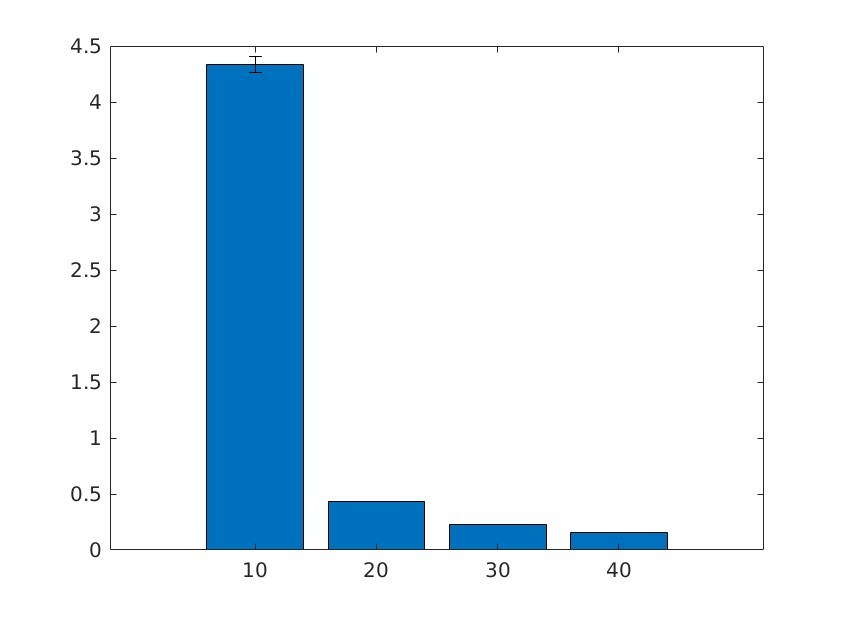
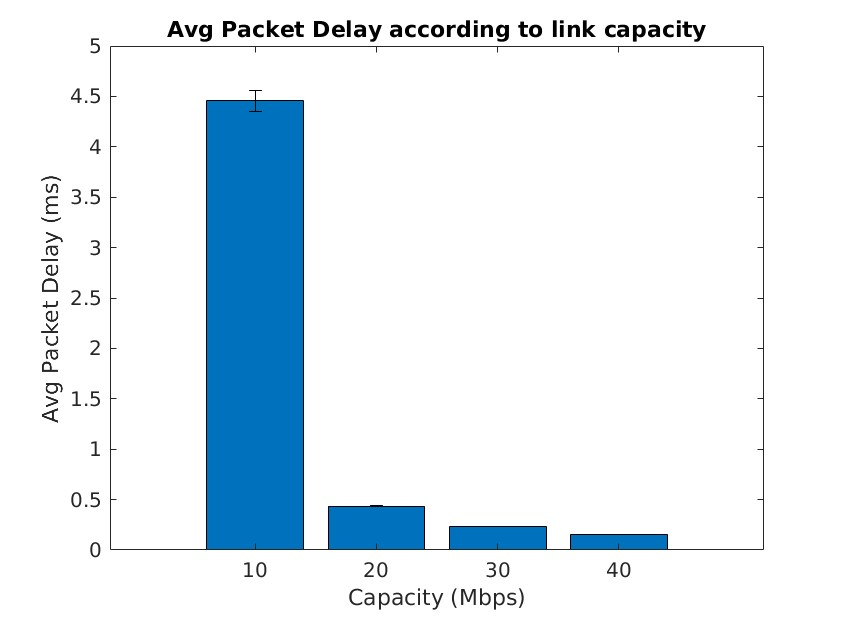
updated 1.a image and started ex 1.e

diff --git a/task1/ex_1e.m b/task1/ex_1e.m
@@ -1,0 +1,101 @@
+%% From ex: 1.c
+
+C = 10;              % Link bandwidth (Mbps)
+f = 1e6;             % Queue size (Bytes)
+P = 1e5;             % Stopping criterion (number of packets)
+lambda_values = [1000, 1300, 1600, 1900];  % Packet arrival rate (pps)
+
+% Vectors to store the results
+average_packet_delay = zeros(length(lambda_values), 1);
+average_throughput = zeros(length(lambda_values), 1);
+confidence_intervals_delay = zeros(length(lambda_values), 2);
+confidence_intervals_throughput = zeros(length(lambda_values), 2);
+
+% Run the simulator 20 times for each lambda value
+for i = 1:length(lambda_values)
+    lambda = lambda_values(i);
+    num_simulations = 20;
+    delays = zeros(num_simulations, 1);
+    throughputs = zeros(num_simulations, 1);
+    
+    for j = 1:num_simulations
+        [PL, APD, ~, TT] = Simulator1(lambda, C, f, P);
+        delays(j) = APD;
+        throughputs(j) = TT;
+    end
+    
+    % Calculate the mean and 90% confidence interval
+    average_packet_delay(i) = mean(delays);
+    confidence_intervals_delay(i, :) = prctile(delays, [5, 95]);
+    
+    average_throughput(i) = mean(throughputs);
+    confidence_intervals_throughput(i, :) = prctile(throughputs, [5, 95]);
+end
+
+% Bar Charts
+figure;
+subplot(2, 1, 1);
+bar(average_packet_delay);
+title('Average Packet Delay (Simulator1)');
+xlabel('Packet Arrival Rate (pps)');
+ylabel('Average Delay (ms)');
+hold on;
+errorbar(1:length(lambda_values), average_packet_delay, average_packet_delay - confidence_intervals_delay(:, 1), confidence_intervals_delay(:, 2) - average_packet_delay, 'r.', 'LineWidth', 1);
+
+subplot(2, 1, 2);
+bar(average_throughput);
+title('Average Throughput (Simulator1)');
+xlabel('Packet Arrival Rate (pps)');
+ylabel('Average Throughput (Mbps)');
+hold on;
+errorbar(1:length(lambda_values), average_throughput, average_throughput - confidence_intervals_throughput(:, 1), confidence_intervals_throughput(:, 2) - average_throughput, 'r.', 'LineWidth', 1);
+
+
+%--------------------------------------------------------------------------
+%% From ex: 1.d
+
+C = 10;              % Link bandwidth (Mbps)
+f = 1e6;             % Queue size (Bytes)
+P = 1e5;             % Stopping criterion (number of packets)
+b = 1e-5;            % Bit error rate
+lambda_values = [1000, 1300, 1600, 1900];  % Packet arrival rate (pps)
+
+% Vectors to store the results for Simulator2
+average_packet_delay_sim2 = zeros(length(lambda_values), 1);
+average_throughput_sim2 = zeros(length(lambda_values), 1);
+
+% Run the simulations for each lambda value and the specified BER
+for i = 1:length(lambda_values)
+    lambda = lambda_values(i);
+    num_simulations = 20;
+    delays_sim2 = zeros(num_simulations, 1);
+    throughputs_sim2 = zeros(num_simulations, 1);
+    
+    for j = 1:num_simulations
+        [PL, APD, ~, TT] = Simulator2_e(lambda, C, f, P, b);
+        delays_sim2(j) = APD;
+        throughputs_sim2(j) = TT;
+    end
+    
+    % Calculate the mean for Simulator2
+    average_packet_delay_sim2(i) = mean(delays_sim2);
+    average_throughput_sim2(i) = mean(throughputs_sim2);
+end
+
+% Display the results in bar charts for Simulator2
+figure;
+subplot(2, 1, 1);
+bar(average_packet_delay_sim2);
+title('Average Packet Delay (Simulator2)');
+xlabel('Packet Arrival Rate (pps)');
+ylabel('Average Delay (ms)');
+hold on;
+errorbar(1:length(lambda_values), average_packet_delay_sim2, average_packet_delay_sim2 - confidence_intervals_delay(:, 1), confidence_intervals_delay(:, 2) - average_packet_delay_sim2, 'r.', 'LineWidth', 1);
+
+subplot(2, 1, 2);
+bar(average_throughput_sim2);
+title('Average Throughput (Simulator2)');
+xlabel('Packet Arrival Rate (pps)');
+ylabel('Average Throughput (Mbps)');
+hold on;
+errorbar(1:length(lambda_values), average_throughput_sim2, average_throughput_sim2 - confidence_intervals_throughput(:, 1), confidence_intervals_throughput(:, 2) - average_throughput_sim2, 'r.', 'LineWidth', 1);

diff --git a/task1/Simulator2_e.m b/task1/Simulator2_e.m
@@ -1,0 +1,103 @@
+function [PL , APD , MPD , TT] = Simulator2_e(lambda,C,f,P,b)
+% INPUT PARAMETERS:
+%  lambda - packet rate (packets/sec)
+%  C      - link bandwidth (Mbps)
+%  f      - queue size (Bytes)
+%  P      - number of packets (stopping criterium)
+%  b      - bit error rate
+% OUTPUT PARAMETERS:
+%  PL   - packet loss (%)
+%  APD  - average packet delay (milliseconds)
+%  MPD  - maximum packet delay (milliseconds)
+%  TT   - transmitted throughput (Mbps)
+
+%Events:
+ARRIVAL= 0;       % Arrival of a packet            
+DEPARTURE= 1;     % Departure of a packet
+
+%State variables:
+STATE = 0;          % 0 - connection free; 1 - connection bysy
+QUEUEOCCUPATION= 0; % Occupation of the queue (in Bytes)
+QUEUE= [];          % Size and arriving time instant of each packet in the queue
+
+%Statistical Counters:
+TOTALPACKETS= 0;       % No. of packets arrived to the system
+LOSTPACKETS= 0;        % No. of packets dropped due to buffer overflow
+TRANSMITTEDPACKETS= 0; % No. of transmitted packets
+TRANSMITTEDBYTES= 0;   % Sum of the Bytes of transmitted packets
+DELAYS= 0;             % Sum of the delays of transmitted packets
+MAXDELAY= 0;           % Maximum delay among all transmitted packets
+
+% Initializing the simulation clock:
+Clock= 0;
+
+% Initializing the List of Events with the first ARRIVAL:
+tmp= Clock + exprnd(1/lambda);
+Event_List = [ARRIVAL, tmp, GeneratePacketSize(), tmp];
+
+%Similation loop:
+while TRANSMITTEDPACKETS<P               % Stopping criterium
+    Event_List= sortrows(Event_List,2);  % Order EventList by time
+    Event= Event_List(1,1);              % Get first event and 
+    Clock= Event_List(1,2);              %   and
+    Packet_Size= Event_List(1,3);        %   associated
+    Arrival_Instant= Event_List(1,4);    %   parameters.
+    Event_List(1,:)= [];                 % Eliminate first event
+    if Event == ARRIVAL         % If first event is an ARRIVAL
+        TOTALPACKETS= TOTALPACKETS+1;
+        tmp= Clock + exprnd(1/lambda);
+        Event_List = [Event_List; ARRIVAL, tmp, GeneratePacketSize(), tmp];
+        if STATE==0
+            STATE= 1;
+            Event_List = [Event_List; DEPARTURE, Clock + 8*Packet_Size/(C*10^6), Packet_Size, Clock];
+        else
+            if QUEUEOCCUPATION + Packet_Size <= f
+                QUEUE= [QUEUE;Packet_Size , Clock];
+                QUEUEOCCUPATION= QUEUEOCCUPATION + Packet_Size;
+            else
+                LOSTPACKETS= LOSTPACKETS + 1;
+            end
+        end
+    else                        % If first event is a DEPARTURE
+        if (rand() < (1-b)^(Packet_Size*8)) % Introduce the BER prob
+            TRANSMITTEDBYTES= TRANSMITTEDBYTES + Packet_Size;
+            DELAYS= DELAYS + (Clock - Arrival_Instant);
+            if Clock - Arrival_Instant > MAXDELAY
+                MAXDELAY= Clock - Arrival_Instant;
+            end
+            TRANSMITTEDPACKETS= TRANSMITTEDPACKETS + 1;
+        else                            % Failure
+            LOSTPACKETS = LOSTPACKETS + 1;
+        end
+
+        if QUEUEOCCUPATION > 0
+            Event_List = [Event_List; DEPARTURE, Clock + 8*QUEUE(1,1)/(C*10^6), QUEUE(1,1), QUEUE(1,2)];
+            QUEUEOCCUPATION= QUEUEOCCUPATION - QUEUE(1,1);
+            QUEUE(1,:)= [];
+        else
+            STATE= 0;
+        end
+    end
+end
+
+%Performance parameters determination:
+PL= 100*LOSTPACKETS/TOTALPACKETS;      % in %
+APD= 1000*DELAYS/TRANSMITTEDPACKETS;   % in milliseconds
+MPD= 1000*MAXDELAY;                    % in milliseconds
+TT= 10^(-6)*TRANSMITTEDBYTES*8/Clock;  % in Mbps
+
+end
+
+function out= GeneratePacketSize()
+    aux= rand();
+    aux2= [65:109 111:1517];
+    if aux <= 0.25
+        out= 64;
+    elseif aux <= 0.25 + 0.17
+        out= 110;
+    elseif aux <= 0.25 + 0.17 + 0.11
+        out= 1518;
+    else
+        out = aux2(randi(length(aux2)));
+    end
+end

diff --git a/task1/Simulator1_e.m b/task1/Simulator1_e.m
@@ -1,0 +1,97 @@
+function [PL , APD , MPD , TT] = Simulator1_e(lambda,C,f,P)
+% INPUT PARAMETERS:
+%  lambda - packet rate (packets/sec)
+%  C      - link bandwidth (Mbps)
+%  f      - queue size (Bytes)
+%  P      - number of packets (stopping criterium)
+% OUTPUT PARAMETERS:
+%  PL   - packet loss (%)
+%  APD  - average packet delay (milliseconds)
+%  MPD  - maximum packet delay (milliseconds)
+%  TT   - transmitted throughput (Mbps)
+
+%Events:
+ARRIVAL= 0;       % Arrival of a packet            
+DEPARTURE= 1;     % Departure of a packet
+
+%State variables:
+STATE = 0;          % 0 - connection free; 1 - connection bysy
+QUEUEOCCUPATION= 0; % Occupation of the queue (in Bytes)
+QUEUE= [];          % Size and arriving time instant of each packet in the queue
+
+%Statistical Counters:
+TOTALPACKETS= 0;       % No. of packets arrived to the system
+LOSTPACKETS= 0;        % No. of packets dropped due to buffer overflow
+TRANSMITTEDPACKETS= 0; % No. of transmitted packets
+TRANSMITTEDBYTES= 0;   % Sum of the Bytes of transmitted packets
+DELAYS= 0;             % Sum of the delays of transmitted packets
+MAXDELAY= 0;           % Maximum delay among all transmitted packets
+
+% Initializing the simulation clock:
+Clock= 0;
+
+% Initializing the List of Events with the first ARRIVAL:
+tmp= Clock + exprnd(1/lambda);
+Event_List = [ARRIVAL, tmp, GeneratePacketSize(), tmp];
+
+%Similation loop:
+while TRANSMITTEDPACKETS<P               % Stopping criterium
+    Event_List= sortrows(Event_List,2);  % Order EventList by time
+    Event= Event_List(1,1);              % Get first event and 
+    Clock= Event_List(1,2);              %   and
+    Packet_Size= Event_List(1,3);        %   associated
+    Arrival_Instant= Event_List(1,4);    %   parameters.
+    Event_List(1,:)= [];                 % Eliminate first event
+    if Event == ARRIVAL         % If first event is an ARRIVAL
+        TOTALPACKETS= TOTALPACKETS+1;
+        tmp= Clock + exprnd(1/lambda);
+        Event_List = [Event_List; ARRIVAL, tmp, GeneratePacketSize(), tmp];
+        if STATE==0
+            STATE= 1;
+            Event_List = [Event_List; DEPARTURE, Clock + 8*Packet_Size/(C*10^6), Packet_Size, Clock];
+        else
+            if QUEUEOCCUPATION + Packet_Size <= f
+                QUEUE= [QUEUE;Packet_Size , Clock];
+                QUEUEOCCUPATION= QUEUEOCCUPATION + Packet_Size;
+            else
+                LOSTPACKETS= LOSTPACKETS + 1;
+            end
+        end
+    else                        % If first event is a DEPARTURE
+        TRANSMITTEDBYTES= TRANSMITTEDBYTES + Packet_Size;
+        DELAYS= DELAYS + (Clock - Arrival_Instant);
+        if Clock - Arrival_Instant > MAXDELAY
+            MAXDELAY= Clock - Arrival_Instant;
+        end
+        TRANSMITTEDPACKETS= TRANSMITTEDPACKETS + 1;
+        if QUEUEOCCUPATION > 0
+            Event_List = [Event_List; DEPARTURE, Clock + 8*QUEUE(1,1)/(C*10^6), QUEUE(1,1), QUEUE(1,2)];
+            QUEUEOCCUPATION= QUEUEOCCUPATION - QUEUE(1,1);
+            QUEUE(1,:)= [];
+        else
+            STATE= 0;
+        end
+    end
+end
+
+%Performance parameters determination:
+PL= 100*LOSTPACKETS/TOTALPACKETS;      % in %
+APD= 1000*DELAYS/TRANSMITTEDPACKETS;   % in milliseconds
+MPD= 1000*MAXDELAY;                    % in milliseconds
+TT= 10^(-6)*TRANSMITTEDBYTES*8/Clock;  % in Mbps
+
+end
+
+function out= GeneratePacketSize()
+    aux= rand();
+    aux2= [65:109 111:1517];
+    if aux <= 0.25
+        out= 64;
+    elseif aux <= 0.25 + 0.17
+        out= 110;
+    elseif aux <= 0.25 + 0.17 + 0.11
+        out= 1518;
+    else
+        out = aux2(randi(length(aux2)));
+    end
+end

diff --git a/README.md b/README.md
@@ -55,10 +55,10 @@ The generated Bar plot is present in the image bellow. Take into account that th
 The recorded values in the terminal were:
 
 ```text
-For C=10Mdps, the Av. Packet Delay (ms)  = 4.34e+00 +- 7.20e-02
-For C=20Mdps, the Av. Packet Delay (ms)  = 4.36e-01 +- 1.08e-03
-For C=30Mdps, the Av. Packet Delay (ms)  = 2.31e-01 +- 3.60e-04
-For C=40Mdps, the Av. Packet Delay (ms)  = 1.57e-01 +- 2.45e-04
+For C=10Mdps, the Av. Packet Delay (ms)  = 4.46e+00 +- 1.01e-01
+For C=20Mdps, the Av. Packet Delay (ms)  = 4.35e-01 +- 1.31e-03
+For C=30Mdps, the Av. Packet Delay (ms)  = 2.31e-01 +- 4.41e-04
+For C=40Mdps, the Av. Packet Delay (ms)  = 1.57e-01 +- 2.52e-04
 ```
 
 ### Conclusion
@@ -222,6 +222,33 @@ errorbar(1:length(lambda_values), average_throughput_sim2, average_throughput_si
 ### Result
 
 ![Exercise 1.d image](./task1/images/ex_1d.jpg)
+
+## Exercise 1.e
+### Code
+
+Considering the same packet size as present in the Simulators, just the new probabilities, we just needed to modify the *GeneratePacketSize* function in both the simulators.
+
+```matlab
+function out= GeneratePacketSize()
+    aux= rand();
+    aux2= [65:109 111:1517];
+    if aux <= 0.25
+        out= 64;
+    elseif aux <= 0.25 + 0.17
+        out= 110;
+    elseif aux <= 0.25 + 0.17 + 0.11
+        out= 1518;
+    else
+        out = aux2(randi(length(aux2)));
+    end
+end
+```
+
+### Result
+
+![Exercise 1.e value of 1.c](./task1/images/ex_1e-c.jpg)
+
+![Exercise 1.e value of 1.d](./task1/images/ex_1e-d.jpg)
 
 ### Conclusion
 
